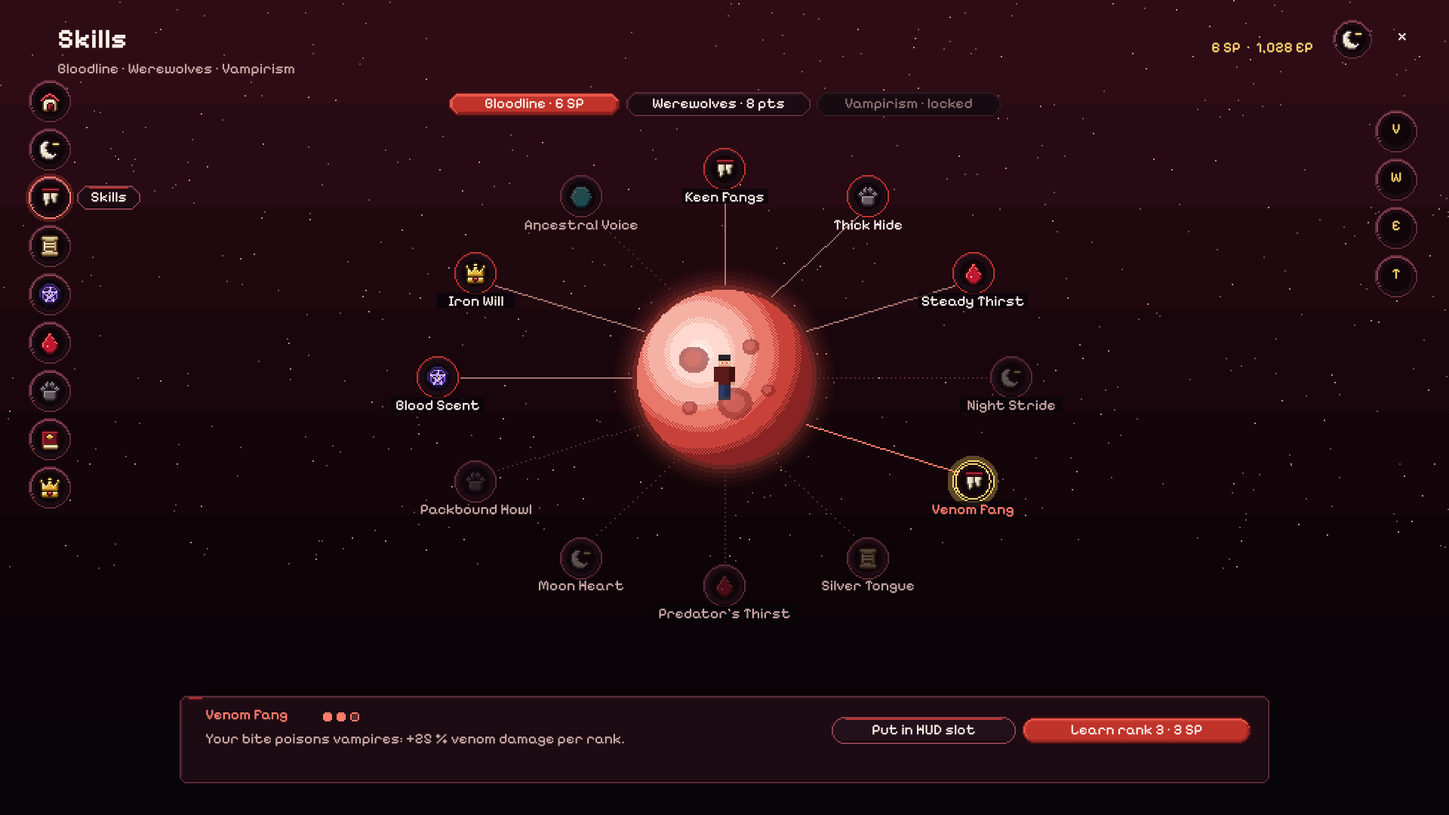
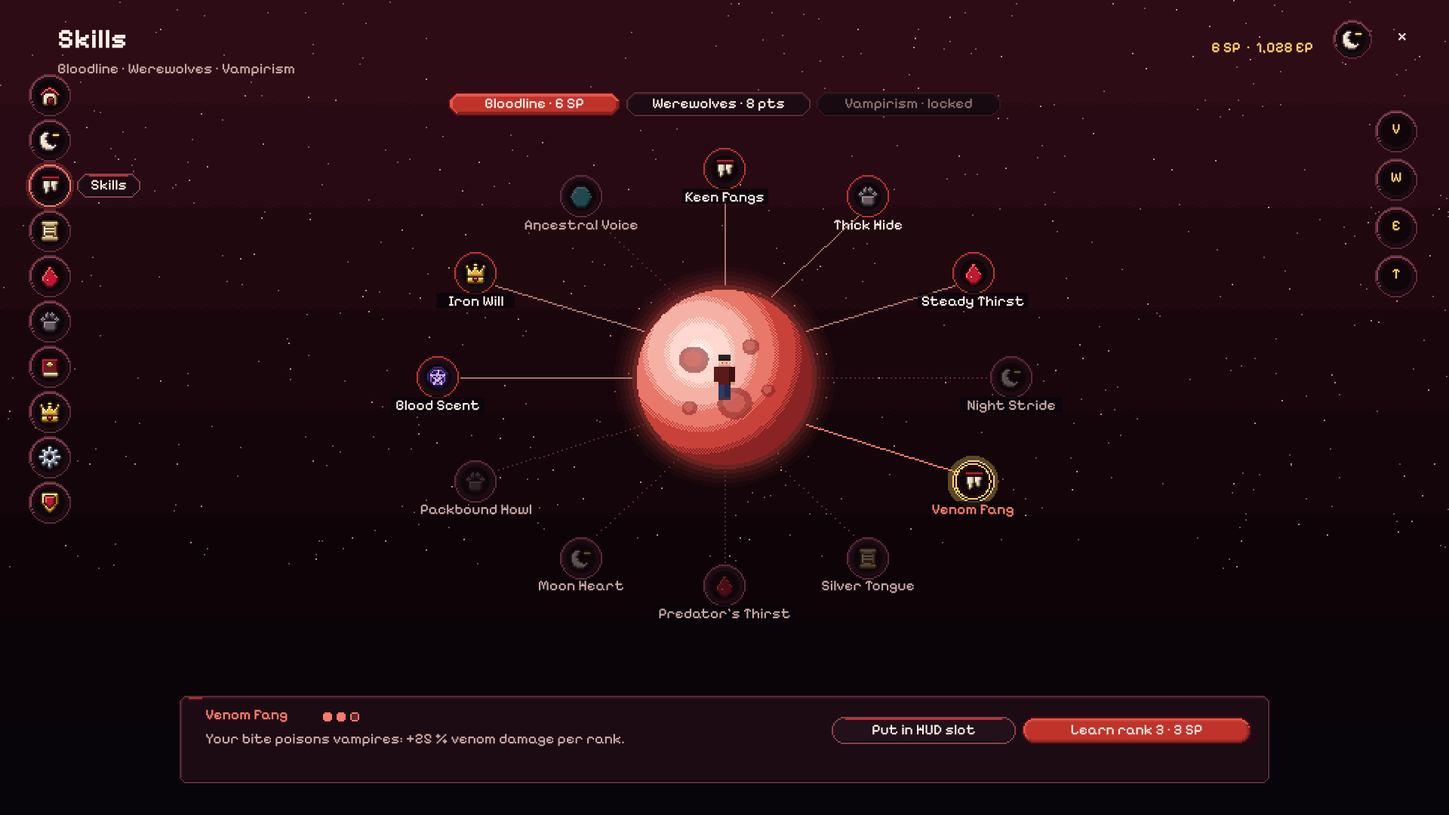
docs(design): style guide fixes: no Rites page, HUD matches PR #56 (keys, column layout, outer Alt labels, mastery bar)

Changed region(s): [[0.0, 0.0917, 0.0938, 0.6417]]

diff --git a/docs/superpowers/design/ui-overhaul/phase1/src/scene-hud.js b/docs/superpowers/design/ui-overhaul/phase1/src/scene-hud.js
@@ -1,4 +1,4 @@
-// HUD mockup. Needs THEME and MODE ('super' | 'tensura').
+// HUD mockup, matching PR #56 (HudLayout, SlotBadge, MasteryBar, SlotLabel). Needs THEME and MODE ('super' | 'tensura').
 const K = KF[THEME], isT = MODE === 'tensura';
 const HC = { grimoire: { text: GP.ink, mut: GP.mut, head: GP.red, plateText: GP.paH, fill: GP.redH, mark: rgba('#D8B24A') }, moon: { text: MP.text, mut: MP.mut, head: MP.hot, plateText: MP.text, fill: MP.hot, mark: MP.gold }, tensura: { text: TP.text, mut: TP.mut, head: TP.teal, plateText: TP.text, fill: TP.teal, mark: TP.teal } }[THEME];
 const FX = { grimoire: 0, moon: 2000, tensura: 4000 }[THEME], FY = isT ? 5600 : 4400;
@@ -8,6 +8,7 @@ const fr = figma.createFrame(); fr.name = fname; fr.x = FX; fr.y = FY; fr.resize
 const cv = new Cv(SW, SH), tx = [];
 world(cv); vanillaBars(cv, 4);
 const say = (s, x, y, o = {}) => tx.push([s, x, y, o]);
+const meas = (s, font) => { const t = T(fr, s, 0, 0, { S: 2, font: font || 'body' }); const w = t.width / 2; t.remove(); return Math.ceil(w); };
 
 // status card, top left
 {
@@ -22,57 +23,83 @@ const say = (s, x, y, o = {}) => tx.push([s, x, y, o]);
   const x = 926, y = 6; K.slot(cv, x, y, 24, 'normal'); cv.blit(ICON.moon(16), x + 4, y + 4);
   const w = 118, px = 960 - 6 - w; K.plate(cv, px, 34, w, 14); say('Forced shift 1:40', px + 6, 37, { c: HC.plateText });
 }
-// loadout popups (Alt held)
-const names = isT ? [['R', 'Predation', 'ready'], ['F', 'Sense', 'on'], ['V', 'Black Flame', '4 s'], ['G', 'Mimicry', 'ready'], ['X', 'Great Sage', 'locked'], ['C', 'Storm', 'ready']] : [['R', 'Bite', 'ready'], ['F', 'Thirst', 'on'], ['V', 'Moon Heart', '4 s'], ['G', 'Pack Howl', 'ready'], ['X', 'Alpha Roar', 'locked'], ['C', 'Silver Tongue', 'ready']];
-[0, 1].forEach((g) => {
-  const x = g ? 566 : 270, y = 452, w = 126, h = 44; K.panel(cv, x, y, w, h);
-  for (let i = 0; i < 3; i++) { const [k, nm, st] = names[g * 3 + i]; say(k, x + 8, y + 5 + i * 12, { c: HC.head, font: 'head' }); say(nm, x + 20, y + 5 + i * 12, { c: HC.text }); say(st, x + w - 8 - st.length * 5, y + 5 + i * 12, { c: st === 'locked' ? HC.mut : st === 'ready' ? (THEME === 'grimoire' ? GP.good : MP.good) : HC.mut }); }
-});
-// mode pill
-{
-  const w = isT ? 148 : 160, x = 480 - w / 2; K.plate(cv, x, 478, w, 14);
-  if (isT) TK.gem(cv, x + 6, 481, 8, TP.teal); else if (THEME === 'grimoire') GK.gem(cv, x + 6, 481, 9, GP.wax); else MK.gem(cv, x + 6, 481, 8, MP.red);
-  say(isT ? 'TENSURA  ·  Caps again' : 'SUPERNATURAL  ·  Caps', x + 20, 481, { c: HC.plateText });
-}
-// slots
-const sq = (x, y, n, active) => { // Tensura mode: square tile in the theme's material, teal mark on the corner
+// vanilla offhand slot (left of the hotbar) and attack indicator (right of it): the columns stand outside both
+cv.rect(360, 518, 29, 22, rgba('#8B8B8B')); cv.rect(361, 519, 27, 20, rgba('#2A2A2A')); cv.box(360, 518, 29, 22, rgba('#1A1A1A')); cv.box(366, 520, 22, 18, rgba('#5A5A5A'));
+cv.line(581, 523, 589, 531, rgba('#C8C8D0')); cv.line(581, 524, 588, 531, rgba('#9A9AA4')); cv.rect(578, 534, 16, 2, rgba('#1E1E1E')); cv.rect(578, 534, 10, 2, rgba('#E0E0E0'));
+
+// ---- the six slots: HudLayout.slots at 960 x 540: left column x = 480 - 91 - 29 - 4 - 22, right column x = 480 + 91 + 6 + 18 + 4, rows 24 apart from y = 540 - 3 - 70
+const SLOT = 22, LABEL_H = 20, LABEL_AIR = 3, PAD = 4;
+const COLX = [334, 599], ROW0 = 467;
+const KEYS = ['R', 'F', 'V', 'Z', 'X', 'C'];
+// [name, state (cooldown or blocked reason), mastery 0..1 (Tensura mode), description, kind]
+const D = isT ? [
+  ['Predation', null, 0.8, 'Devour and learn'], ['Sense', null, 0.55, 'Feel life nearby'], ['Black Flame', '4 s', 0.3, 'Burn what you hit'],
+  ['Mimicry', null, 1, 'Copy a shape'], ['Great Sage', 'Needs 200 magicules', 0.1, 'Think and analyse'], ['Storm', null, 0.6, 'Call a lightning storm'],
+] : [
+  ['Bite', null, null, 'Feed on who you face'], ['Thirst', null, null, 'Smell blood nearby'], ['Moon Heart', '4 s', null, 'Calm the moon pull'],
+  ['Pack Howl', null, null, 'Call your pack to you'], ['Alpha Roar', 'Needs the Alpha rank', null, 'Frighten foes'], ['Silver Tongue', null, null, 'Charm a villager\'s price'],
+];
+const ICONS = isT ? ['gem', 'sigil', 'scroll', 'crown', 'moon', 'paw'] : ['fang', 'drop', 'moon', 'paw', 'crown', 'sigil'];
+const ACTIVE = 1;
+const line2 = ([nm, state, m, desc]) => [state, m === null ? null : (m >= 1 ? 'Mastered' : Math.round(m * 100) + '%'), desc].filter(Boolean).join(' · ');
+const barColor = (i) => (D[i][2] >= 1 ? 0xFFFFD36B : i === 4 ? 0xFF8E8AA8 : { grimoire: 0xFFE0554A, moon: 0xFFE2493F, tensura: 0xFF3FD0D6 }[THEME]); // MasteryBar.color: gold / learning / progress
+
+const squareTile = (c, x, y, active) => { // Tensura mode: a square in the theme's material, a diamond mark on the top right corner
   const r = THEME === 'grimoire' ? ramp(active ? GP.br : GP.bord, active ? GP.brHH : GP.paH, GP.pa, GP.paS) : THEME === 'moon' ? ramp(active ? MP.hot : MP.edge, MP.edgeH, MP.card, MP.cardD) : ramp(active ? TP.tealH : TP.teal, TP.edgeH, TP.panel, TP.panelD);
-  cv.bevel(rr(n, n, 2), r, x, y); cv.bevel(rr(n - 6, n - 6, 1), ramp(0, 0xFF1A1418, rgba('#150F14'), 0xFF1A1418), x + 3, y + 3);
-  const d = new Cv(7, 7); d.poly([[3.5, 0], [7, 3.5], [3.5, 7], [0, 3.5]], 1); cv.bevel(d, ramp(TP.tealD, TP.tealH, TP.teal, rgba('#2AA0A8')), x - 3, y + n - 4);
+  c.bevel(rr(SLOT, SLOT, 2), r, x, y); c.bevel(rr(SLOT - 6, SLOT - 6, 1), ramp(0, 0xFF1A1418, rgba('#150F14'), 0xFF1A1418), x + 3, y + 3);
 };
-const icons = isT ? ['gem', 'sigil', 'scroll', 'crown', 'moon', 'paw'] : ['fang', 'drop', 'moon', 'paw', 'crown', 'sigil'];
-const tint = (i) => i;
-const buildSlots = (cv, say, grp, bx, by) => {
-  if (!isT && grp === 0) { // blood ring round Bite, drawn first so the slot sits on top of it
-    const cx = bx + 12, cy = by + 12, r = 16, lit = Math.round(72 * 0.62);
-    for (let i = 0; i < 72; i++) { const a = i / 72 * 2 * Math.PI, x = Math.round(cx + Math.sin(a) * r - 1), y = Math.round(cy - Math.cos(a) * r - 1); cv.rect(x, y, 2, 2, i < lit ? rgba('#D8182E') : withA(rgba('#D8182E'), 80)); }
+const labelBox = (c, x, y, w, h) => { if (THEME === 'grimoire') c.bevel(rr(w, h, 1), GR.page, x, y); else K.panel(c, x, y, w, h); };
+
+const drawGroup = (c, say2, grp, bx, by, S) => {
+  if (!isT && grp === 0) { // blood ring round Bite, drawn first so its slot sits on top of it
+    const cx = bx + 11, cy = by + 11, r = 15, lit = Math.round(72 * 0.62);
+    for (let i = 0; i < 72; i++) { const a = i / 72 * 2 * Math.PI, x = Math.round(cx + Math.sin(a) * r - 1), y = Math.round(cy - Math.cos(a) * r - 1); c.rect(x, y, 2, 2, i < lit ? rgba('#D8182E') : withA(rgba('#D8182E'), 80)); }
   }
-  for (let i = grp * 3; i < grp * 3 + 3; i++) {
-  const j = i % 3, x = bx + j * 28, y = by, active = i === 1, locked = names[i][2] === 'locked';
-  if (isT) sq(x, y, 24, active); else K.slot(cv, x, y, 24, active ? 'active' : 'normal');
-  cv.blit(ICON[icons[i]](16), x + 4, y + 4 + (isT ? 0 : 0));
-  if (names[i][2] === '4 s') { pie(cv, x + 12, y + 12, 11, 0.62, withA(0xFF000000, 175)); }
-  if (locked) { cv.rect(x + 4, y + 4, 16, 16, withA(0xFF000000, 150)); cv.rect(x + 9, y + 11, 6, 5, rgba('#C8C8D0')); cv.box(x + 10, y + 7, 4, 5, rgba('#C8C8D0')); }
-  // key seal
-  if (THEME === 'grimoire') GK.seal(cv, x - 4, y - 4, 11, 'normal'); else if (THEME === 'moon') cv.bevel(discMask(11), ramp(MP.redDD, MP.hot, MP.red, MP.redD), x - 4, y - 4); else TK.keyseal(cv, x - 4, y - 4);
-  say(names[i][0], x - 4, y - 4 + 1, { c: THEME === 'tensura' ? TP.btnText : GP.paH, w: 11, align: 'CENTER' });
-  if (names[i][2] === '4 s') say('4s', x, y + 8, { c: 0xFFFFFFFF, w: 24, align: 'CENTER', shadow: 0xFF000000 });
-  // mastery bar under the slot
-  const mf = [0.8, 0.55, 0.3, 0.9, 0.1, 0.6][i]; cv.rect(x, y + 26 - 1, 24, 4, 0xFF0E0A0C); cv.rect(x + 1, y + 26, Math.round(22 * mf), 2, HC.fill);
-}
+  for (let j = 0; j < 3; j++) {
+    const i = grp * 3 + j, x = bx, y = by + j * (SLOT + 2), d = D[i], active = i === ACTIVE, cool = d[1] === '4 s', blocked = d[1] && !cool, lift = isT ? 5 : 0;
+    if (isT) squareTile(c, x, y, active); else K.slot(c, x, y, SLOT, active ? 'active' : 'normal');
+    c.blit(ICON[ICONS[i]](16), x + 3, y + 3);
+    if (cool) pie(c, x + 11, y + 11, 10, 0.62, withA(0xFF000000, 175));
+    if (blocked) { c.rect(x + 3, y + 3, 16, 16, withA(0xFF000000, 150)); c.rect(x + 8, y + 10, 6, 5, rgba('#C8C8D0')); c.box(x + 9, y + 6, 4, 5, rgba('#C8C8D0')); }
+    // key badge (SlotBadge.key): Grimoire seal bottom right, Blood Moon plate bottom centre, Tensura tab top left; lifted over the mastery bar
+    const kw = 6;
+    if (THEME === 'grimoire') { const bw = 11, ky = y + SLOT - (lift === 0 ? 12 : lift + 12); GK.seal(c, x + SLOT - bw - 1, ky, bw, 'normal'); say2(KEYS[i], x + SLOT - bw - 1, ky + 1, { c: GP.paH, w: bw, align: 'CENTER' }, 1); }
+    else if (THEME === 'moon') { const ky = y + SLOT - 10 - lift; c.bevel(rr(kw + 4, 10, 1), ramp(MP.edge, MP.cardH, MP.cardD, MP.void), x + (SLOT - kw) / 2 - 2, ky); say2(KEYS[i], x + (SLOT - kw) / 2 - 2, ky + 1, { c: MP.text, w: kw + 4, align: 'CENTER' }, 1); }
+    else { c.bevel(notch(kw + 4, 11, 2, true, false, false, true), ramp(TP.tealD, TP.tealH, TP.teal, rgba('#2AA0A8')), x - 2, y - 3); say2(KEYS[i], x - 2, y - 2, { c: TP.btnText, w: kw + 4, align: 'CENTER' }, 1); }
+    if (cool) say2('4s', x, THEME === 'tensura' ? y + SLOT - 10 - lift : y + 2, { c: 0xFFFFFFFF, w: SLOT, align: 'CENTER', shadow: 0xFF000000 }, 1);
+    if (isT) { // MasteryBar: a 4 px backing 1 px above the bottom frame line, a 2 px track inside, the fill on it; and the mark of Tensura mode
+      const m = { fraction: d[2] }, iw = SLOT - 4 - 2, fw = d[2] >= 1 ? iw : Math.max(1, Math.min(iw - 1, Math.round(d[2] * iw)));
+      c.rect(x + 2, y + SLOT - 1 - 4, SLOT - 4, 4, 0xFF05080C); c.rect(x + 3, y + SLOT - 1 - 3, iw, 2, 0xFF2A2F36); c.rect(x + 3, y + SLOT - 1 - 3, fw, 2, barColor(i));
+      const mk = new Cv(5, 5); mk.poly([[2.5, 0], [5, 2.5], [2.5, 5], [0, 2.5]], 1); c.bevel(mk, ramp(TP.tealD, TP.tealH, TP.teal, rgba('#2AA0A8')), x + SLOT - 2, y - 3);
+    }
+    // the Alt label: two lines, on the OUTER side of the column, level with the slot's row
+    const l1 = d[0], l2 = line2(d), tw = Math.max(meas(l1, 'head'), meas(l2)), pw = tw + 2 * PAD, py = y + (SLOT - LABEL_H) / 2;
+    const px = grp === 0 ? x - LABEL_AIR - pw : x + SLOT + LABEL_AIR;
+    labelBox(c, px, py, pw, LABEL_H);
+    say2(l1, px + PAD, py + 2, { c: HC.head, font: 'head', w: pw - 2 * PAD, align: grp === 0 ? 'RIGHT' : 'LEFT' }, 1);
+    say2(l2, px + PAD, py + 10, { c: HC.mut, w: pw - 2 * PAD, align: grp === 0 ? 'RIGHT' : 'LEFT' }, 1);
+  }
 };
-buildSlots(cv, say, 0, 301, 508); buildSlots(cv, say, 1, 579, 508);
-if (isT) { say('preset 2', 301, 496, { c: 0xFFFFFFFF, shadow: 0xFF000000 }); say('preset 3', 579, 496, { c: 0xFFFFFFFF, shadow: 0xFF000000 }); }
+// mode pill (HudLayout.pill: PILL_ABOVE 74 over the bottom edge, centred between the columns)
+{
+  const w = isT ? 148 : 160, x = 480 - w / 2; K.plate(cv, x, 466, w, 14);
+  if (isT) TK.gem(cv, x + 6, 469, 8, TP.teal); else if (THEME === 'grimoire') GK.gem(cv, x + 6, 469, 9, GP.wax); else MK.gem(cv, x + 6, 469, 8, MP.red);
+  say(isT ? 'TENSURA  ·  Caps again' : 'SUPERNATURAL  ·  Caps', x + 20, 469, { c: HC.plateText });
+}
+const sayT = (s, x, y, o) => say(s, x, y, o);
+drawGroup(cv, (s, x, y, o) => say(s, x, y, o), 0, COLX[0], ROW0, 2);
+drawGroup(cv, (s, x, y, o) => say(s, x, y, o), 1, COLX[1], ROW0, 2);
+if (isT) { say('preset 2', COLX[0], 454, { c: 0xFFFFFFFF, shadow: 0xFF000000 }); say('preset 3', COLX[1], 454, { c: 0xFFFFFFFF, shadow: 0xFF000000 }); }
 cv.emit(fr, 0, 0, 2, 'screen');
 for (const [s, x, y, o] of tx) T(fr, s, x, y, { S: 2, ...o });
-// zoomed detail of both slot groups (6 px per texel), so the craft can be judged
-const ZS = 6, zt = [];
+
+// zoomed detail, 4 px per texel: each column with its labels, to judge the craft
+const ZS = 4;
 [0, 1].forEach((grp) => {
-  const zc = new Cv(92, 44); zc.rect(0, 0, 92, 44, rgba('#5C9A3C')); zc.rect(0, 0, 92, 1, rgba('#82BE52'));
-  buildSlots(zc, (s, x, y, o) => zt.push([grp, s, x, y, o]), grp, 8, 8);
-  const ox = grp ? 1010 : 400, oy = 110; zc.emit(fr, ox / ZS, oy / ZS, ZS, 'detail ' + grp);
-  for (const [g, s, x, y, o] of zt.filter((z) => z[0] === grp)) T(fr, s, ox / ZS + x, oy / ZS + y, { S: ZS, ...o, size: o.size || 8 });
-  box(fr, ox, oy - 34, 92 * ZS, 26, 0x00000000);
-  label(fr, 'Detail × 3: ' + (grp ? 'right group' : 'left group') + ' · keys, icons 16 px, mastery bar' + (grp === 0 && !isT ? ', blood ring' : ''), ox, oy - 28, 0xFF1A1A22, 15, true);
+  const zt = [], W = grp ? 260 : 200, H = 76, zc = new Cv(W, H); zc.rect(0, 0, W, H, rgba('#5C9A3C')); zc.rect(0, 0, W, 1, rgba('#82BE52'));
+  drawGroup(zc, (s, x, y, o) => zt.push([s, x, y, o]), grp, grp === 0 ? 168 : 10, 4, ZS);
+  const ox = grp ? 880 : 40, oy = 170; zc.emit(fr, ox / ZS, oy / ZS, ZS, 'detail ' + grp);
+  for (const [s, x, y, o] of zt) T(fr, s, ox / ZS + x, oy / ZS + y, { S: ZS, ...o });
+  label(fr, 'Detail × 4: ' + (grp ? 'right column (Z X C), labels on the right' : 'left column (R F V), labels on the left') + (isT ? ' · mastery bar on each slot, key badge lifted over it' : grp === 0 ? ' · blood ring on Bite' : ''), ox, oy - 34, 0xFF1A1A22, 16, true);
 });
 return done({ id: fr.id, rects: cv.rects().length });

diff --git a/docs/superpowers/design/ui-overhaul/phase1/src/scene-skills.js b/docs/superpowers/design/ui-overhaul/phase1/src/scene-skills.js
@@ -6,8 +6,8 @@ for (const n of PAGE.children.filter((c) => c.name === fname)) n.remove();
 const fr = figma.createFrame(); fr.name = fname; fr.x = FX; fr.y = FY; fr.resize(1920, 1080); fr.clipsContent = true; fr.fills = []; PAGE.appendChild(fr);
 const cv = new Cv(SW, SH), tx = [];
 const say = (s, x, y, o = {}) => tx.push([s, x, y, o]);
-const PAGES = ['Home', 'Path', 'Skills', 'Quests', 'Rites', 'Bloodline', 'Pack', 'Guide', 'Loadout'];
-const PICON = { Home: 'home', Path: 'moon', Skills: 'fang', Quests: 'scroll', Rites: 'sigil', Bloodline: 'drop', Pack: 'paw', Guide: 'book', Loadout: 'crown' };
+const PAGES = ['Home', 'Path', 'Skills', 'Quests', 'Bloodline', 'Pack', 'Guide', 'Loadout', 'Settings', 'Admin'];
+const PICON = { Home: 'home', Path: 'moon', Skills: 'fang', Quests: 'scroll', Bloodline: 'drop', Pack: 'paw', Guide: 'book', Loadout: 'crown', Settings: 'gear', Admin: 'shield' };
 const pips = (x, y, n, on, c) => { for (let i = 0; i < n; i++) { cv.disc(x + 3 + i * 9, y + 3, 3.5, 3.5, i < on ? c : withA(c, 70)); cv.ring(x + 3 + i * 9, y + 3, 3.5, 3.5, 1, i < on ? 0xFF000000 & 0x00000000 | withA(c, 255) : c); } };
 const nodeAt = (cx, cy, rx, ry, i) => { const a = -Math.PI / 2 + i * Math.PI / 6; return [cx + Math.cos(a) * rx, cy + Math.sin(a) * ry]; };
 const lab = (s, nx, ny, c, font, back) => { const w = Math.round(s.length * 5.3) + 4; cv.rect(Math.round(nx - w / 2), ny + 13, w, 10, back); say(s, nx - 48, ny + 15, { c, w: 96, align: 'CENTER', font }); };
@@ -57,7 +57,7 @@ if (THEME === 'grimoire') {
   say('Skills', 38, 22, { font: 'title', size: 14, c: MP.text, k: 1.3 }); say('Bloodline · Werewolves · Vampirism', 38, 42, { c: MP.mut });
   say('6 SP  ·  1,028 EP', 640, 28, { c: MP.gold, w: 230, align: 'RIGHT', font: 'head' });
   MK.slot(cv, 884, 14, 24, 'normal'); cv.blit(ICON.moon(16), 888, 18); say('x', 926, 20, { c: MP.text, font: 'head' });
-  [0, 1, 2, 3, 4, 5, 6, 7, 8].forEach((i) => { const y = 54 + i * 32, sel = i === 2; MK.slot(cv, 20, y, 26, sel ? 'active' : 'normal'); cv.blit(ICON[PICON[PAGES[i]]](16), 25, y + 5); if (sel) { MK.plate(cv, 52, y + 6, 40, 14); say('Skills', 52, y + 9, { c: MP.text, w: 40, align: 'CENTER' }); } });
+  PAGES.forEach((_, i) => { const y = 50 + i * 30, sel = i === 2; MK.slot(cv, 20, y, 26, sel ? 'active' : 'normal'); cv.blit(ICON[PICON[PAGES[i]]](16), 25, y + 5); if (sel) { MK.plate(cv, 52, y + 6, 40, 14); say('Skills', 52, y + 9, { c: MP.text, w: 40, align: 'CENTER' }); } });
   ['V', 'W', 'E', 'T'].forEach((l, i) => { const y = 54 + i * 32; MK.slot(cv, 912, y + 20, 26, 'normal'); say(l, 912, y + 28, { c: MP.gold, w: 26, align: 'CENTER', font: 'head' }); });
   [['Bloodline · 6 SP', 'selected', 112], ['Werewolves · 8 pts', 'normal', 120], ['Vampirism · locked', 'disabled', 120]].forEach(([t, st, w], i, a) => { const x = 480 - 182 + a.slice(0, i).reduce((s, v) => s + v[2] + 6, 0); MK.tab(cv, x, 62, w, 14, st); say(t, x, 65, { c: st === 'disabled' ? rgba('#8A7071') : MP.text, w, align: 'CENTER' }); });
   MK.panel(cv, 120, 462, 720, 56);
@@ -72,8 +72,8 @@ if (THEME === 'grimoire') {
   // left list
   say('PAGES', 24, 34, { c: TP.mut });
   PAGES.forEach((p, i) => { const y = 46 + i * 20, sel = p === 'Skills'; TK.tab(cv, 22, y, 134, 17, sel ? 'selected' : 'normal'); cv.blit(ICON[PICON[p]](16), 26, y + 0); say(p, 46, y + 5, { c: sel ? TP.teal : TP.text, font: sel ? 'head' : 'body' }); });
-  say('OTHER MODS', 24, 234, { c: TP.mut });
-  ['Vampirism', 'Werewolves', 'Enchanted', 'Tensura'].forEach((p, i) => { const y = 246 + i * 20; TK.tab(cv, 22, y, 134, 17, 'normal'); say(p, 36, y + 5, { c: TP.gold }); });
+  say('OTHER MODS', 24, 262, { c: TP.mut });
+  ['Vampirism', 'Werewolves', 'Enchanted', 'Tensura'].forEach((p, i) => { const y = 274 + i * 20; TK.tab(cv, 22, y, 134, 17, 'normal'); say(p, 36, y + 5, { c: TP.gold }); });
   // centre graph
   [['Bloodline · 6 SP', 'selected', 110], ['Werewolves · 8 pts', 'normal', 120], ['Vampirism · locked', 'disabled', 120]].forEach(([t, st, w], i, a) => { const x = 170 + 20 + a.slice(0, i).reduce((s, v) => s + v[2] + 6, 0); TK.button(cv, x, 36, w, 14, st === 'selected' ? 'normal' : st, st === 'selected'); say(t, x, 39, { c: st === 'selected' ? TP.btnText : st === 'disabled' ? rgba('#5F7C8E') : TP.text, w, align: 'CENTER' }); });
   const cx = 424, cy = 292;

diff --git a/docs/superpowers/design/ui-overhaul/phase1/src/scene-home.js b/docs/superpowers/design/ui-overhaul/phase1/src/scene-home.js
@@ -7,8 +7,8 @@ const fr = figma.createFrame(); fr.name = fname; fr.x = FX; fr.y = FY; fr.resize
 const cv = new Cv(SW, SH), tx = [];
 const say = (s, x, y, o = {}) => tx.push([s, x, y, o]);
 const tw = (s) => Math.round(s.length * 5.3);
-const PAGES = ['Home', 'Path', 'Skills', 'Quests', 'Rites', 'Bloodline', 'Pack', 'Guide', 'Loadout'];
-const PICON = { Home: 'home', Path: 'moon', Skills: 'fang', Quests: 'scroll', Rites: 'sigil', Bloodline: 'drop', Pack: 'paw', Guide: 'book', Loadout: 'crown' };
+const PAGES = ['Home', 'Path', 'Skills', 'Quests', 'Bloodline', 'Pack', 'Guide', 'Loadout', 'Settings', 'Admin'];
+const PICON = { Home: 'home', Path: 'moon', Skills: 'fang', Quests: 'scroll', Bloodline: 'drop', Pack: 'paw', Guide: 'book', Loadout: 'crown', Settings: 'gear', Admin: 'shield' };
 const gold = { grimoire: GP.br, moon: MP.gold, tensura: TP.gold }[THEME];
 const paperC = K.paper;
 const panelBox = (x, y, w, h, kind) => { if (THEME === 'grimoire') { if (kind === 'card') K.inset(cv, x, y, w, h); } else if (kind === 'card') K.inset(cv, x, y, w, h); else K.panel(cv, x, y, w, h); };
@@ -109,8 +109,8 @@ if (THEME === 'moon') {
   TK.cover(cv, 8, 6, 944, 528); TK.title(cv, 14, 12, 932);
   say('《 Status · Home 》', 24, 14, { font: 'title', size: 10, c: TP.teal, k: 1.25 }); say('Werewolf · Alpha · 6 SP · 1,028 EP', 300, 15, { c: TP.mut, w: 360, align: 'CENTER' });
   TK.button(cv, 840, 14, 56, 12, 'normal', false); say('Theme ▾', 840, 16, { c: TP.text, w: 56, align: 'CENTER' }); say('✕', 926, 15, { c: TP.text });
-  [['ME', ['Home', 'Path', 'Skills', 'Quests']], ['MAGIC', ['Rites']], ['PEOPLE', ['Bloodline', 'Pack']], ['HELP', ['Guide']]].reduce((y, [g, ps]) => { say(g, 24, y, { c: TP.mut }); y += 11; ps.forEach((p) => { const sel = p === 'Home'; TK.tab(cv, 22, y, 134, 16, sel ? 'selected' : 'normal'); cv.blit(ICON[PICON[p]](16), 26, y); say(p, 46, y + 4, { c: sel ? TP.teal : TP.text, font: sel ? 'head' : 'body' }); if (sel) { cv.disc(142, y + 8, 5, 5, TP.warn); say('3', 137, y + 3, { c: TP.btnText, w: 10, align: 'CENTER' }); } y += 18; }); return y + 6; }, 34);
-  say('OTHER MODS', 24, 380, { c: TP.mut }); ['Vampirism', 'Werewolves', 'Enchanted', 'Tensura'].forEach((p, i) => { const y = 392 + i * 20; TK.tab(cv, 22, y, 134, 17, 'normal'); say(p, 36, y + 5, { c: TP.gold }); });
+  [['ME', ['Home', 'Path', 'Skills', 'Quests']], ['PEOPLE', ['Bloodline', 'Pack']], ['HELP', ['Guide', 'Loadout']], ['MORE', ['Settings', 'Admin']]].reduce((y, [g, ps]) => { say(g, 24, y, { c: TP.mut }); y += 11; ps.forEach((p) => { const sel = p === 'Home'; TK.tab(cv, 22, y, 134, 16, sel ? 'selected' : 'normal'); cv.blit(ICON[PICON[p]](16), 26, y); say(p, 46, y + 4, { c: sel ? TP.teal : TP.text, font: sel ? 'head' : 'body' }); if (sel) { cv.disc(142, y + 8, 5, 5, TP.warn); say('3', 137, y + 3, { c: TP.btnText, w: 10, align: 'CENTER' }); } y += 18; }); return y + 6; }, 34);
+  say('OTHER MODS', 24, 396, { c: TP.mut }); ['Vampirism', 'Werewolves', 'Enchanted', 'Tensura'].forEach((p, i) => { const y = 408 + i * 20; TK.tab(cv, 22, y, 134, 17, 'normal'); say(p, 36, y + 5, { c: TP.gold }); });
   youCard(166, 36, 232, 118); worldCard(166, 160, 232, 98); actions(166, 264, 460, 62); notices(172, 340, 440);
   nextCard(404, 36, 222, 94); peopleCard(404, 136, 222, 100);
   say('Waiting for you', 640, 38, { font: 'head', c: TP.text }); chip(740 + 4, 36, '3', 'accent');

diff --git a/docs/superpowers/design/ui-overhaul/phase1/src/icons.js b/docs/superpowers/design/ui-overhaul/phase1/src/icons.js
@@ -11,6 +11,7 @@ const IR = {
   night: ramp(rgba('#0E0820'), rgba('#3A2A5E'), rgba('#22163E'), rgba('#140C28'), rgba('#2E2250'), rgba('#0E0820')),
   teal: ramp(rgba('#0F3A44'), rgba('#D8FEFF'), rgba('#3FD0D6'), rgba('#1F8A94'), rgba('#8EEAEE'), rgba('#17707A')),
   paper: ramp(rgba('#5A3A1A'), rgba('#FFF6DC'), rgba('#E9DDB8'), rgba('#BBA874'), rgba('#FFFFFF'), rgba('#A08C5A')),
+  steel: ramp(rgba('#2A2E36'), rgba('#E4EAF2'), rgba('#9AA4B4'), rgba('#5E6676'), rgba('#C2CAD8'), rgba('#454C5A')),
   paperD: ramp(rgba('#5A3A1A'), rgba('#E2D4A8'), rgba('#CDBB8A'), rgba('#9E8A58')),
 };
 const iconMask = (n, fn) => { const m = new Cv(n, n); fn(m, n / 32); return m; };
@@ -84,6 +85,18 @@ const ICON = {
     cv.bevel(iconMask(n, (m) => m.disc(16 * s, 25.6 * s, 10.5 * s, 3.2 * s, 1)), IR.paperD, 0, 0, n >= 32);
     if (n >= 32) { for (const y of [11, 14.5, 18]) cv.hl(Math.round(11 * s), Math.round(y * s), Math.round((y === 18 ? 7 : 11) * s), rgba('#6A4A28')); cv.bevel(iconMask(n, (m) => m.disc(21.4 * s, 21.4 * s, 3.4 * s, 3.4 * s, 1)), IR.blood, 0, 0, false); }
     else { cv.hl(5, 7, 6, rgba('#6A4A28')); cv.hl(5, 9, 6, rgba('#6A4A28')); cv.px(10, 11, rgba('#C01830')); }
+    return cv;
+  },
+  gear(n) {
+    const cv = new Cv(n, n), s = n / 32;
+    const m = iconMask(n, (mm) => { mm.disc(16 * s, 16 * s, 9.2 * s, 9.2 * s, 1); for (let i = 0; i < 8; i++) { const a = i * Math.PI / 4; mm.disc((16 + Math.cos(a) * 11.2) * s, (16 + Math.sin(a) * 11.2) * s, 2.5 * s, 2.5 * s, 1); } const h = new Cv(n, n); h.disc(16 * s, 16 * s, 4 * s, 4 * s, 1); for (let i = 0; i < h.d.length; i++) if (h.d[i]) mm.d[i] = 0; });
+    cv.bevel(m, IR.steel, 0, 0, n >= 32);
+    return cv;
+  },
+  shield(n) {
+    const cv = new Cv(n, n), s = n / 32, P = (a) => a.map(([x, y]) => [x * s, y * s]);
+    cv.bevel(iconMask(n, (m) => m.poly(P([[6, 5], [26, 5], [26, 16], [21, 24], [16, 28], [11, 24], [6, 16]]), 1)), IR.gold, 0, 0, n >= 32);
+    cv.bevel(iconMask(n, (m) => m.poly(P([[10, 9], [22, 9], [22, 15.5], [18.5, 21], [16, 23], [13.5, 21], [10, 15.5]]), 1)), IR.blood, 0, 0, false);
     return cv;
   },
   home(n) {

diff --git a/docs/superpowers/design/ui-overhaul/phase1/src/sheet-shared.js b/docs/superpowers/design/ui-overhaul/phase1/src/sheet-shared.js
@@ -51,7 +51,7 @@ const para = (f, t, x, y, w, c = GREY, s = 15) => label(f, t, x, y, c, s, false,
   hd(f, '2 · Silhouette and shading rules', 60, 790); rule(f, 60, 828, 2280);
   para(f, '• The silhouette alone must say what the icon is, on a light and on a dark ground (see row 4). One idea per icon, one dominant colour family plus at most one accent.\n• Outline is 1 texel, a darker shade of the icon\'s own colour, never black and never the theme colour. The outline stays at 1 texel at 16, 32 and 64 px, so a bigger icon gets finer detail, not fatter lines.\n• Light from the top-left. Each material has a four-tone ramp: outline, highlight, base, shade (+ two extra bands at 32 and 64 px). Ramps are shared (bone, blood, gold, moon, fur, violet, teal, paper).\n• No anti-aliasing, no dithering inside an icon, no glow inside the canvas. Glow belongs to the frame.\n• Corners of the canvas stay empty; a shape never touches the live-area edge without a 1 texel outline inside the canvas.\n• Locked: the same icon at 40 % ink under the frame colour with a padlock; cooldown: a clockwise dark sweep over the icon. Neither redraws the icon.', 60, 850, 1500, GREY, 15);
   hd(f, '3 · Eight sample icons: 32 px and the 16 px companion', 60, 1130); rule(f, 60, 1168, 2280);
-  const names = [['fang', 'Bite · fangs'], ['drop', 'Blood'], ['moon', 'Moon · path'], ['paw', 'Werewolf · pack'], ['sigil', 'Rites'], ['gem', 'Tensura skill'], ['scroll', 'Quests'], ['crown', 'Alpha']];
+  const names = [['fang', 'Bite · fangs'], ['drop', 'Blood'], ['moon', 'Moon · path'], ['paw', 'Werewolf · pack'], ['sigil', 'Blood Scent · sigil'], ['gem', 'Tensura skill'], ['scroll', 'Quests'], ['crown', 'Alpha']];
   names.forEach(([nm, lb], i) => {
     const x = 60 + (i % 8) * 285, y = 1190; box(f, x, y, 270, 250, rgba('#22222A'));
     ICON[nm](32).emit(f, (x + 14) / 5, (y + 14) / 5, 5, nm + ' 32'); ICON[nm](16).emit(f, (x + 190) / 5, (y + 14) / 5, 5, nm + ' 16');

diff --git a/docs/superpowers/plans/2026-11-21-ui-overhaul.md b/docs/superpowers/plans/2026-11-21-ui-overhaul.md
@@ -140,6 +140,8 @@ Re-run (for edits): serve the `src` folder (`python srv.py 8765 <out>`), paste `
 
 **Goal:** The HUD drawn only from kit sprites, in the approved layout of the style guide.
 
+**Matches PR #56 (`fix/hud-mastery-klaus-sire`):** keys R, F, V (left column) and Z, X, C (right column); `HudLayout.slots` (22 px slots, 2 px gap) and `HudLayout.labels` (an Alt label on the outer side of each column, 20 px tall, centred on its slot's row; left labels end at the slot, right labels start at it); `SlotLabel` lines (line 1 the name, line 2 the cooldown or blocked reason first, then mastery as a percent or "Mastered", then a short description); `MasteryBar` (a 4 px backing with a 2 px track along the bottom edge of each slot in Tensura mode, the key badge and the cooldown seconds lifted 5 px over it); `SlotBadge` (Grimoire seal bottom right, Blood Moon plate bottom centre, Tensura tab top left). The style guide frames `HUD · <theme> · …` draw exactly these boxes.
+
 **Deliverables:** slot frames in the theme shape (Grimoire inked tile, Blood Moon round, Tensura-mode square with the teal mark), 16 px icons, key badges, cooldown sweep, active and ready glow, the blood ring on Bite, mastery bars, mode pill, Alt loadout panels, status card and moon clock; motion for the press, the ready glow and the flourishes; screenshots at GUI scales 2, 3 and 4 in the three themes and both modes.
 
 **Gate:** `SlotArtShapeTest`, `HudPanelsTest`, `HudContrastTest`, `HudModeStateTest`, `HudInputRulesTest` stay green, new tests for the kit-drawn slots; panel review.
@@ -148,13 +150,13 @@ Re-run (for edits): serve the `src` folder (`python srv.py 8765 <out>`), paste `
 
 # Phase 5: Hub screens on the kit
 
-**Goal:** Every hub page on the kit, one page group at a time, in this order unless a dependency says otherwise: Home, Path, Skills, Quests, Bloodline, Pack, Profile, Guide, Settings, Admin, then the dialogs (confirm, Elijah's deal). Rites and Loadout follow with their page group.
+**Goal:** Every hub page on the kit, one page group at a time, in this order unless a dependency says otherwise: Home, Path, Skills, Quests, Bloodline, Pack, Profile, Guide, Loadout, Settings, Admin, then the dialogs (confirm, Elijah's deal). There is no Rites page: PR #57 removes it, rites live in Enchanted's book, and the E seal opens that book. The nav order everywhere is Home, Path, Skills, Quests, Bloodline, Pack, Guide, Loadout, Settings, Admin.
 
 **Deliverables per screen:** the three theme views on the kit, the approved layout from the style guide (the layout tests are updated to the approved geometry in the same PR), page-turn and press motion, empty and long-text states, screenshots at GUI scales 2, 3 and 4 in the three themes.
 
 **Gate:** `ThemeContrastTest`, `NewPagesContrastTest`, `GhoulMoonContrastTest`, `FocusWalkTest`, `NarrationTest`, `LabelFitTest`, `HubLangCoverageTest`, `HubPagesTest`, `PageRowsLayoutTest`, `DetailLayoutTest`, `ChoiceLayoutTest` green; panel review per group.
 
-**Main files:** `parts/supernatural/client/hub/HubScreen.java`, `HubPages.java`, `HubThemeViews.java`, `HubView.java`, `theme/GrimoireTheme.java` + `GrimoireLayout.java`, `theme/BloodMoonTheme.java` + `BloodMoonLayout.java`, `parts/supernaturaltensura/client/TensuraHubTheme.java` + `TensuraHubLayout.java`; pages in `parts/supernatural/client/hub/page/` (`HomePage`, `PathPage`, `BloodMoonPathPage`, `StagePathPage`, `SkillsPage`, `BookSkillsPage`, `QuestsPage`, `BookQuestsPage`, `StageQuestsPage`, `TaskCard`, `BloodlinePage`, `GrimoireBloodlinePage`, `StageBloodlinePage`, `PackPage`, `BookPackPage`, `ProfilePage`, `GuidePage`, `BookGuidePage`, `StageGuidePage`, `SettingsPage`, `AdminPage`, `RitesPage`, `LoadoutPage`, `PageKit`, `PageWidgets`, `EmptyState`); `shared/hub/kit/ConfirmLayout.java`, `ChoiceLayout.java`, `DetailLayout.java`, `Detail.java`.
+**Main files:** `parts/supernatural/client/hub/HubScreen.java`, `HubPages.java`, `HubThemeViews.java`, `HubView.java`, `theme/GrimoireTheme.java` + `GrimoireLayout.java`, `theme/BloodMoonTheme.java` + `BloodMoonLayout.java`, `parts/supernaturaltensura/client/TensuraHubTheme.java` + `TensuraHubLayout.java`; pages in `parts/supernatural/client/hub/page/` (`HomePage`, `PathPage`, `BloodMoonPathPage`, `StagePathPage`, `SkillsPage`, `BookSkillsPage`, `QuestsPage`, `BookQuestsPage`, `StageQuestsPage`, `TaskCard`, `BloodlinePage`, `GrimoireBloodlinePage`, `StageBloodlinePage`, `PackPage`, `BookPackPage`, `ProfilePage`, `GuidePage`, `BookGuidePage`, `StageGuidePage`, `SettingsPage`, `AdminPage`, `LoadoutPage`, `PageKit`, `PageWidgets`, `EmptyState`); `shared/hub/kit/ConfirmLayout.java`, `ChoiceLayout.java`, `DetailLayout.java`, `Detail.java`.
 
 # Phase 6: Boss bars
 
